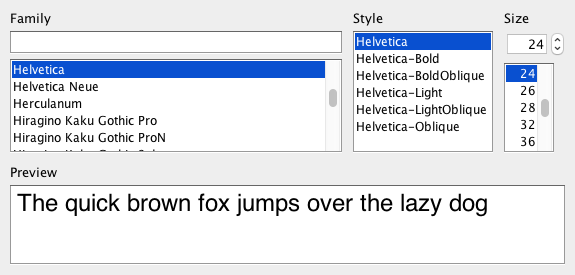
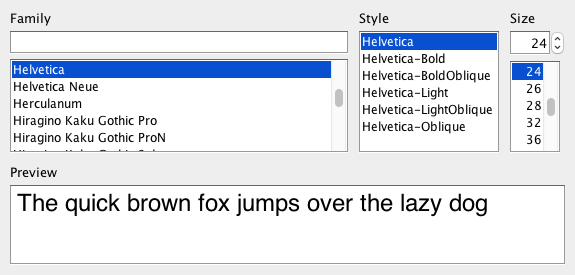
Unified border of font search field with other widgets

Changed region(s): [[0.5617, 0.0582, 0.9757, 0.5527], [0.5913, 0.0291, 0.68, 0.0873]]

diff --git a/fontchooser/src/main/java/org/drjekyll/fontchooser/panes/FamilyPane.java b/fontchooser/src/main/java/org/drjekyll/fontchooser/panes/FamilyPane.java
@@ -48,10 +48,10 @@ public class FamilyPane extends JPanel {
         gridBagConstraints.weightx = 1.0;
 
         JTextField searchField = new JTextField();
-        searchField.setBorder(new JScrollPane().getBorder());
+        searchField.setBorder(javax.swing.BorderFactory.createEmptyBorder());
         searchField.requestFocus();
         searchField.addKeyListener(searchListener);
-        add(searchField, gridBagConstraints);
+        add(new JScrollPane(searchField), gridBagConstraints);
     }
 
     private void addScrollPane() {
